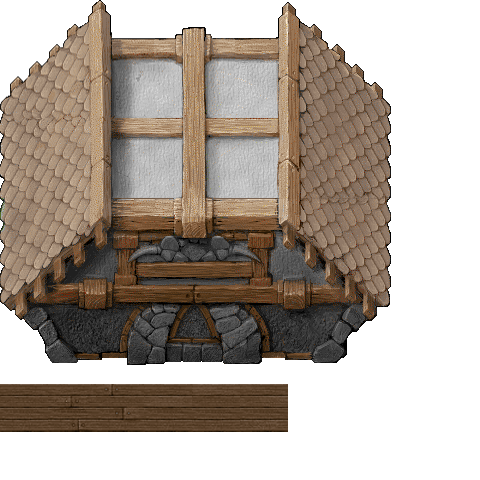
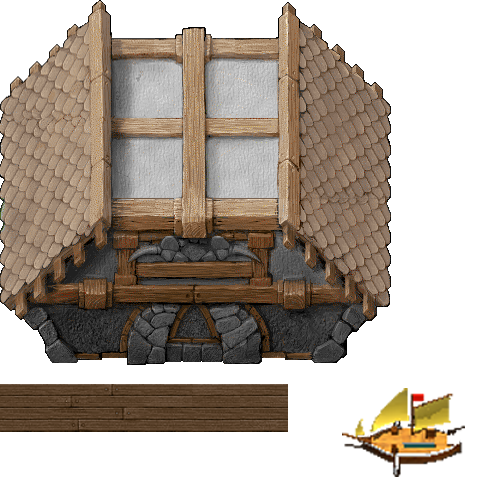
trees replanted river flooded harbour built

Changed region(s): [[0.7188, 0.8125, 0.9688, 1.0]]

diff --git a/main/res/maps/nature.tsx b/main/res/maps/nature.tsx
@@ -348,6 +348,43 @@
    <property name="type" value="rock"/>
   </properties>
  </tile>
+ <tile id="72">
+  <properties>
+   <property name="type" value="grass"/>
+  </properties>
+ </tile>
+ <tile id="73">
+  <properties>
+   <property name="type" value="water"/>
+  </properties>
+ </tile>
+ <tile id="74">
+  <properties>
+   <property name="type" value="grass"/>
+  </properties>
+ </tile>
+ <tile id="75">
+  <properties>
+   <property name="type" value="water"/>
+  </properties>
+ </tile>
+ <tile id="76">
+  <properties>
+   <property name="type" value="water"/>
+  </properties>
+ </tile>
+ <tile id="78">
+  <properties>
+   <property name="blocked" value="true"/>
+   <property name="type" value="wagon"/>
+  </properties>
+ </tile>
+ <tile id="79">
+  <properties>
+   <property name="blocked" value="true"/>
+   <property name="type" value="wagon"/>
+  </properties>
+ </tile>
  <tile id="80">
   <properties>
    <property name="blocked" value="true"/>
@@ -360,6 +397,51 @@
    <property name="type" value="rock"/>
   </properties>
  </tile>
+ <tile id="82">
+  <properties>
+   <property name="type" value="water"/>
+  </properties>
+ </tile>
+ <tile id="83">
+  <properties>
+   <property name="blocked" value="true"/>
+   <property name="type" value="water"/>
+  </properties>
+ </tile>
+ <tile id="84">
+  <properties>
+   <property name="type" value="water"/>
+  </properties>
+ </tile>
+ <tile id="85">
+  <properties>
+   <property name="blocked" value="true"/>
+   <property name="type" value="water"/>
+  </properties>
+ </tile>
+ <tile id="86">
+  <properties>
+   <property name="blocked" value="true"/>
+   <property name="type" value="water"/>
+  </properties>
+ </tile>
+ <tile id="87">
+  <properties>
+   <property name="type" value="wagon"/>
+  </properties>
+ </tile>
+ <tile id="88">
+  <properties>
+   <property name="blocked" value="true"/>
+   <property name="type" value="wagon"/>
+  </properties>
+ </tile>
+ <tile id="89">
+  <properties>
+   <property name="blocked" value="true"/>
+   <property name="type" value="wagon"/>
+  </properties>
+ </tile>
  <tile id="90">
   <properties>
    <property name="blocked" value="true"/>
@@ -370,6 +452,23 @@
   <properties>
    <property name="blocked" value="true"/>
    <property name="type" value="rock"/>
+  </properties>
+ </tile>
+ <tile id="93">
+  <properties>
+   <property name="type" value="water"/>
+  </properties>
+ </tile>
+ <tile id="97">
+  <properties>
+   <property name="blocked" value="true"/>
+   <property name="type" value="wagon"/>
+  </properties>
+ </tile>
+ <tile id="98">
+  <properties>
+   <property name="blocked" value="true"/>
+   <property name="type" value="wagon"/>
   </properties>
  </tile>
 </tileset>

diff --git a/main/src/tyrelion/gui/Minimap.java b/main/src/tyrelion/gui/Minimap.java
@@ -36,6 +36,9 @@ public class Minimap {
 	private static Color TREE = new Color(0x0065280b);
 	private static Color HOUSE = Color.darkGray;
 	private static Color MUD = new Color(0x007f3f00);
+	private static Color WATER = Color.blue;
+	private static Color WOOD = new Color(0x006b2100);
+	private static Color WAGON = new Color(0x00eac9a2);
 	private static Color STONE = new Color(0x00a1876e);
 	
 	private TyrelionMap map;
@@ -64,7 +67,7 @@ public class Minimap {
 			for (int y=0;y<mapHeight;y++){
 				String type = "";
 				// Tile Properties auslesen
-				for (int i=0;i<7;i++){
+				for (int i=0;i<9;i++){
 					int tileID = map.getTileId(x, y, i);
 					type = map.getTileProperty(tileID, "type", "failure");
 					// Array einstellen
@@ -90,7 +93,16 @@ public class Minimap {
 				}	
 				if (types[x][y].equals("mud")){
 					minimap[x][y] = MUD;
-				}	
+				}
+				if (types[x][y].equals("water")){
+					minimap[x][y] = WATER;
+				}
+				if (types[x][y].equals("wood")){
+					minimap[x][y] = WOOD;
+				}
+				if (types[x][y].equals("wagon")){
+					minimap[x][y] = WAGON;
+				}
 				if (types[x][y].equals("stone")){
 					minimap[x][y] = STONE;
 				}	

diff --git a/main/src/tyrelion/TyrelionMap.java b/main/src/tyrelion/TyrelionMap.java
@@ -66,7 +66,7 @@ public class TyrelionMap extends TiledMap {
 				tiles.add(new Rectangle(-1 * 48 -24, y * 48 -24, 48, 48));
 				tiles.add(new Rectangle(super.getWidth() * 48 -24, y * 48 -24, 48, 48));
 				boolean isBlocked = false;
-				for (int i=0;i<7;i++){
+				for (int i=0;i<9;i++){
 					int tileID = super.getTileId(x, y, i);
 					String value = super.getTileProperty(tileID, "blocked", "false");
 					if ("true".equals(value)) {

diff --git a/main/src/tyrelion/ExpMode.java b/main/src/tyrelion/ExpMode.java
@@ -58,7 +58,7 @@ public class ExpMode extends BasicGameState {
 	public void init(GameContainer container, StateBasedGame game)
 			throws SlickException {
 		
-		player = new Player(0, 0);
+		player = new Player(2, 14);
 		
 		map = new TyrelionMap("res/maps/arthlet.tmx", container);
 		
